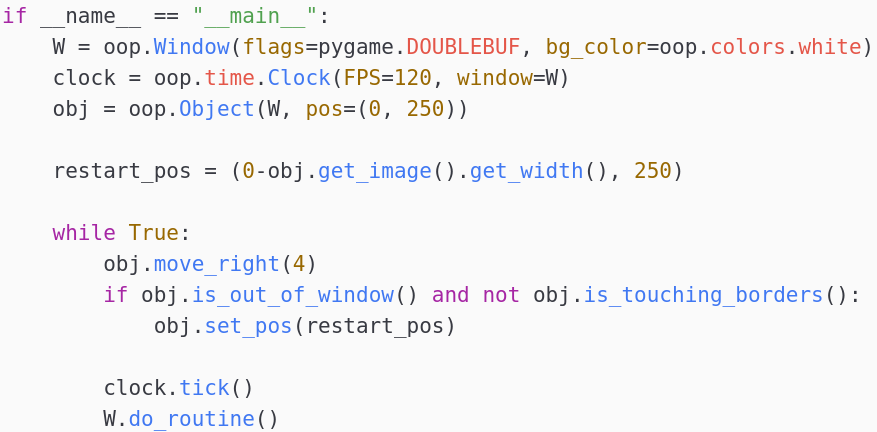
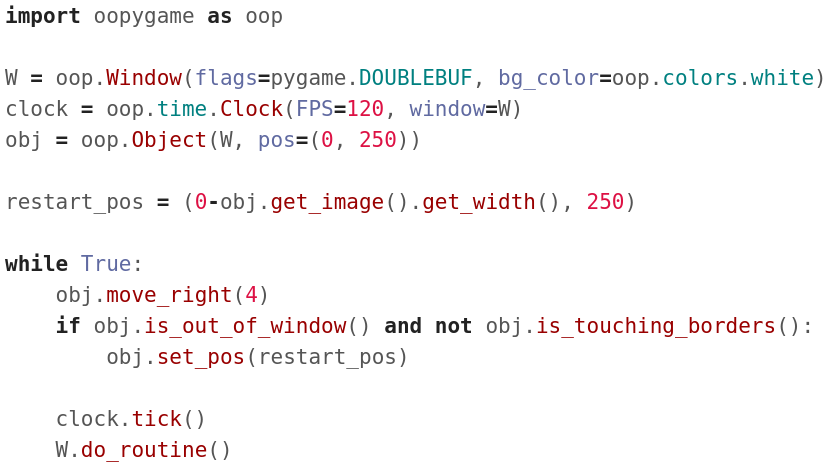
Updating README.md: 	modified:   screenshot.png 	modified:   test_oopygame.py

diff --git a/test_oopygame.py b/test_oopygame.py
@@ -14,19 +14,17 @@
 # ~ along with oopygame.  If not, see <https://www.gnu.org/licenses/>.
 
 import oopygame as oop
-import pygame
 
-if __name__ == "__main__":
-    W = oop.Window(flags=pygame.DOUBLEBUF, bg_color=oop.colors.white)
-    clock = oop.time.Clock(FPS=120, window=W)
-    obj = oop.Object(W, pos=(0, 250))
+W = oop.Window(flags=pygame.DOUBLEBUF, bg_color=oop.colors.white)
+clock = oop.time.Clock(FPS=120, window=W)
+obj = oop.Object(W, pos=(0, 250))
 
-    restart_pos = (0-obj.get_image().get_width(), 250)
+restart_pos = (0-obj.get_image().get_width(), 250)
 
-    while True:
-        obj.move_right(4)
-        if obj.is_out_of_window() and not obj.is_touching_borders():
-            obj.set_pos(restart_pos)
+while True:
+    obj.move_right(4)
+    if obj.is_out_of_window() and not obj.is_touching_borders():
+        obj.set_pos(restart_pos)
 
-        clock.tick()
-        W.do_routine()
+    clock.tick()
+    W.do_routine()
